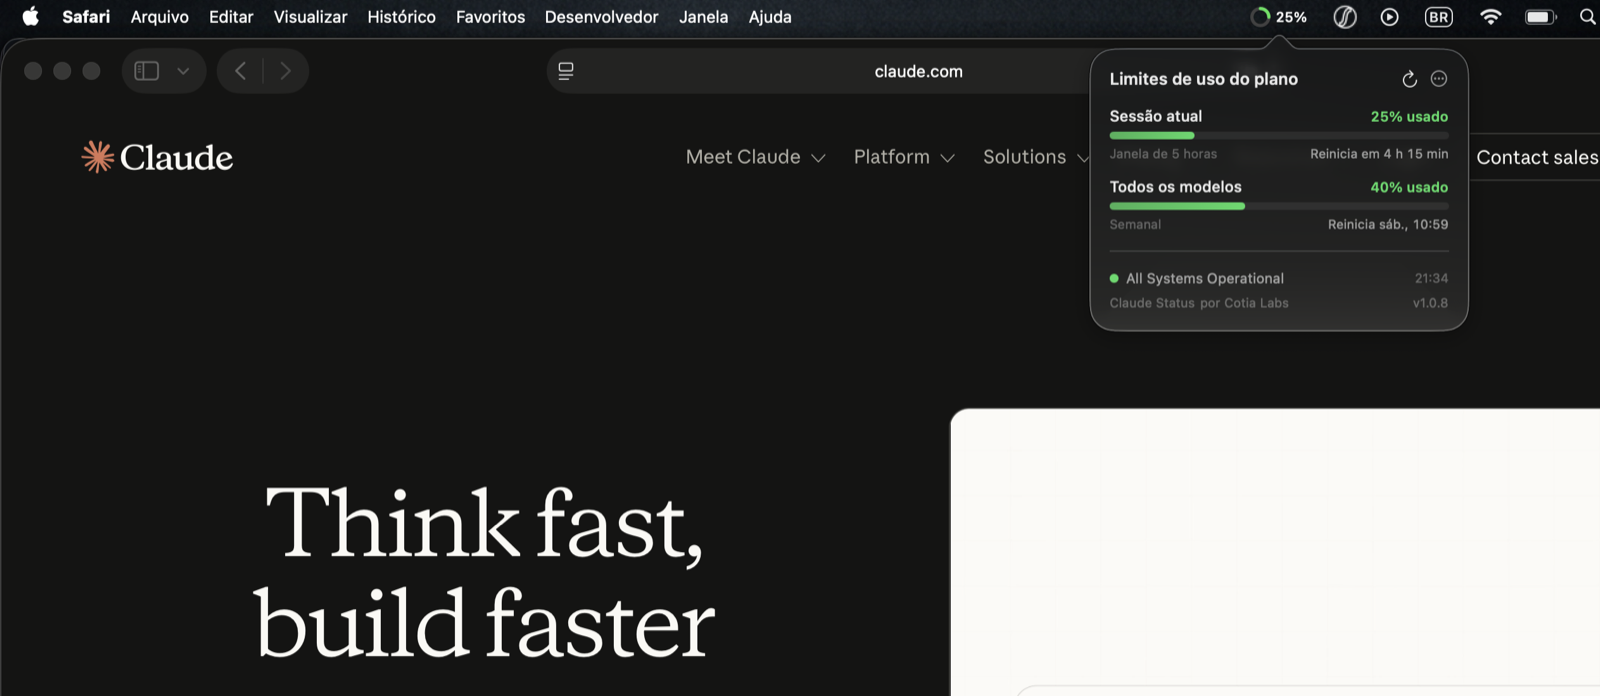
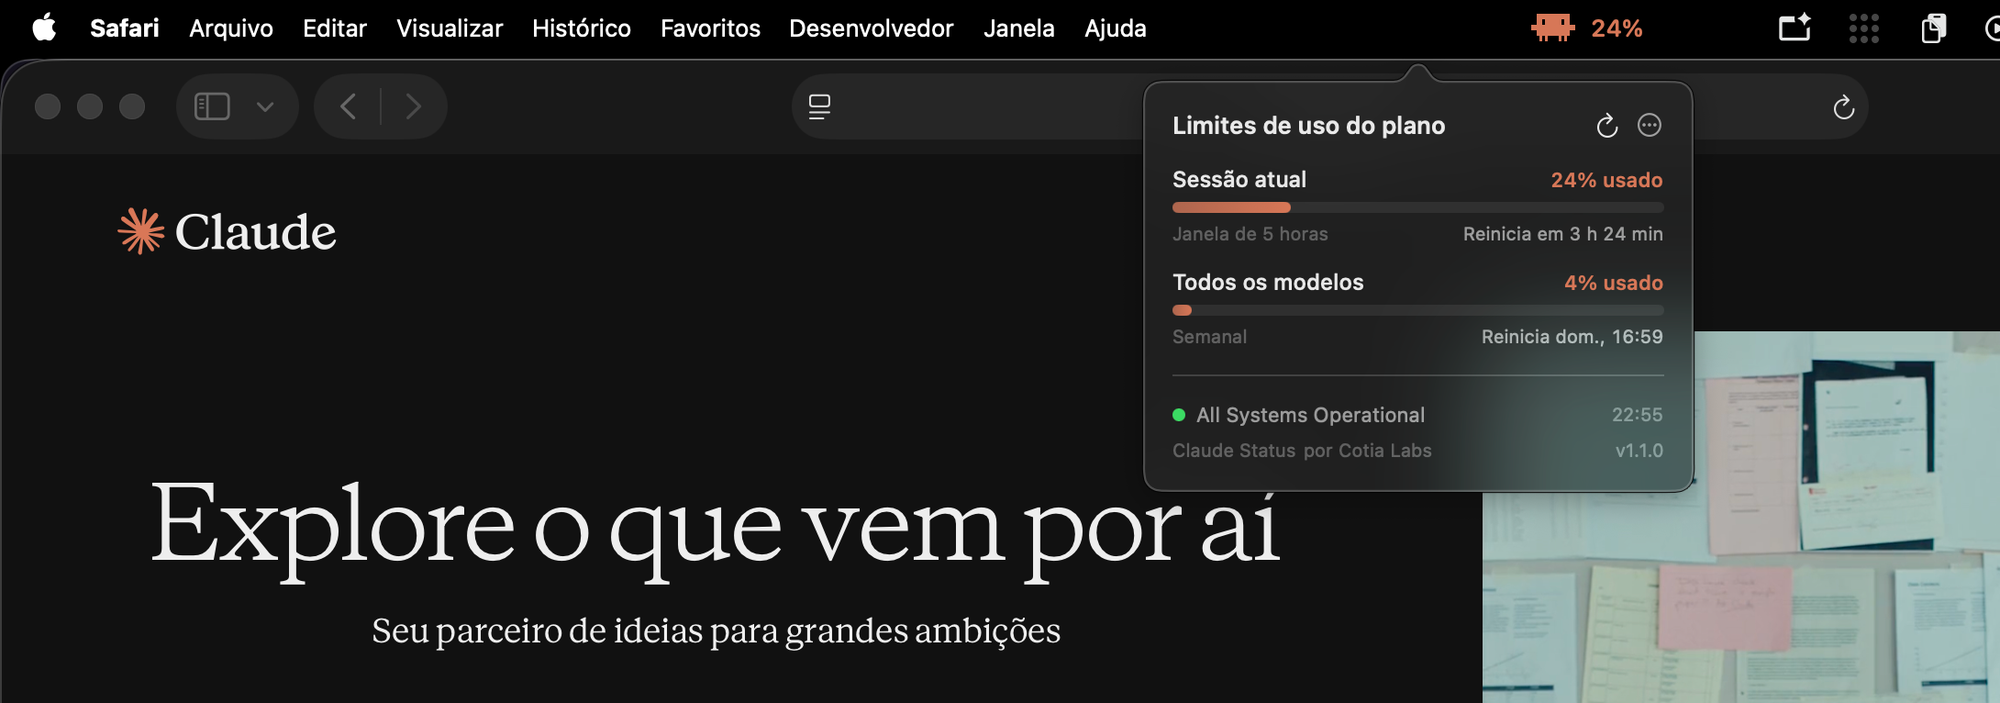
docs: prints do design novo (notch e painel laranja)

diff --git a/README.md b/README.md
@@ -4,7 +4,7 @@
 
 # ClaudeStatusBar
 
-![O anel na barra de menus e o painel de limites de uso](docs/banner.png)
+![O mascote e a porcentagem ao lado do notch, com o painel de limites de uso aberto](docs/banner.png)
 
 Widget de barra de menus para macOS que mostra, de forma animada, os
 **limites de uso do plano Claude** — a mesma informação do `/usage` do
@@ -136,6 +136,10 @@ barras, o tempo até o reset e a semana. Clique abre o painel; clique direito, o
 menu. Só a orelha direita é usada porque os menus dos apps crescem da esquerda
 até o notch. Sem tela com notch (monitor externo, tampa fechada), o ícone volta
 para a barra de menus.
+
+<p align="center">
+  <img src="docs/notch.png" width="460" alt="A faixa no notch fechada, só com o mascote e 24%, e aberta, com a sessão em barras, o reset e a semana">
+</p>
 
 Com **Reduzir Movimento** ligado em Acessibilidade, o anel salta direto para o
 valor, não pulsa em 95%, e as barras do painel não usam spring.
